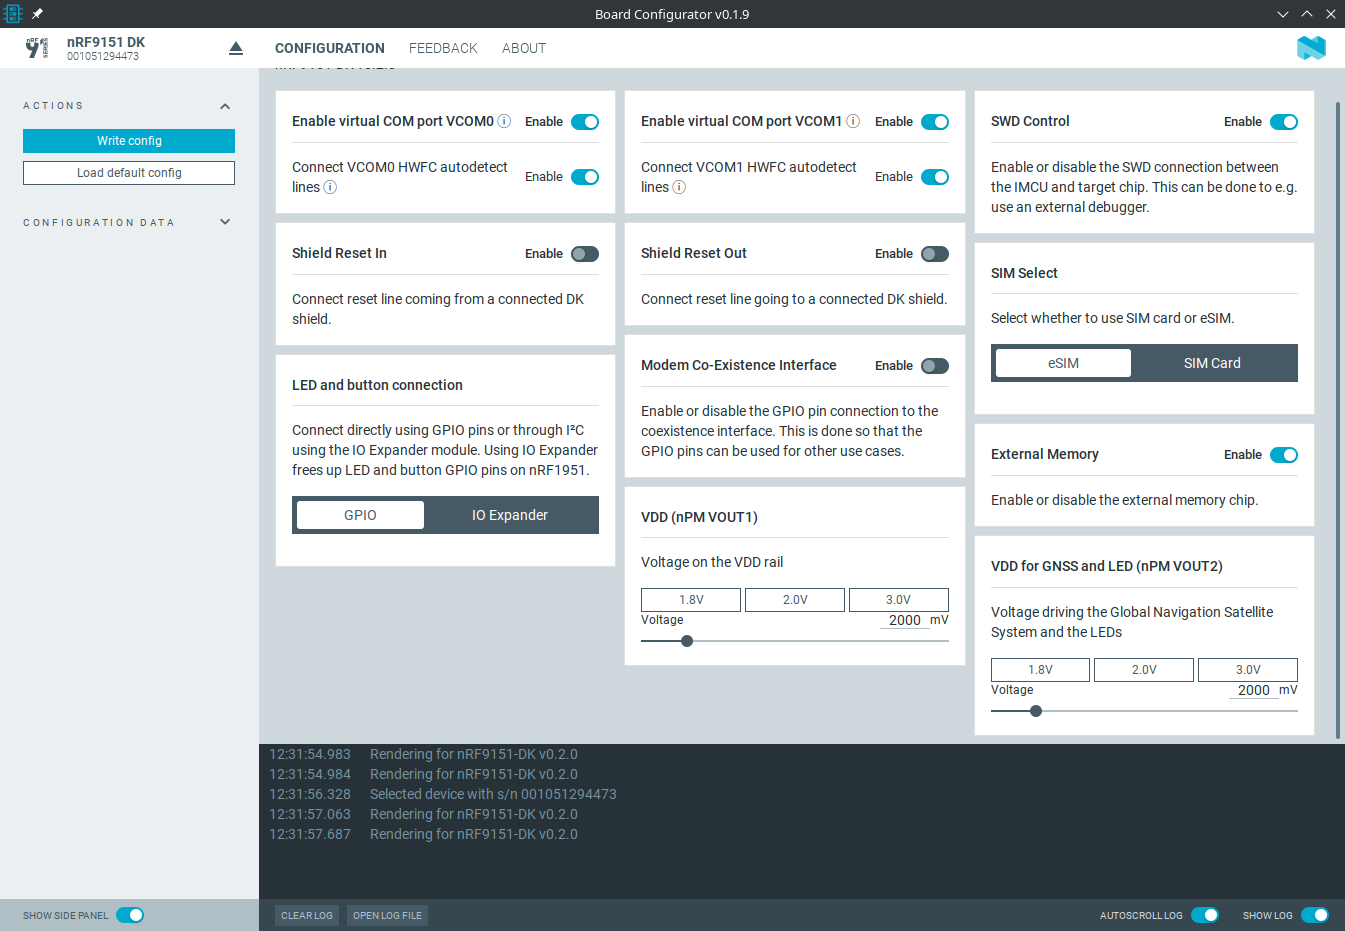
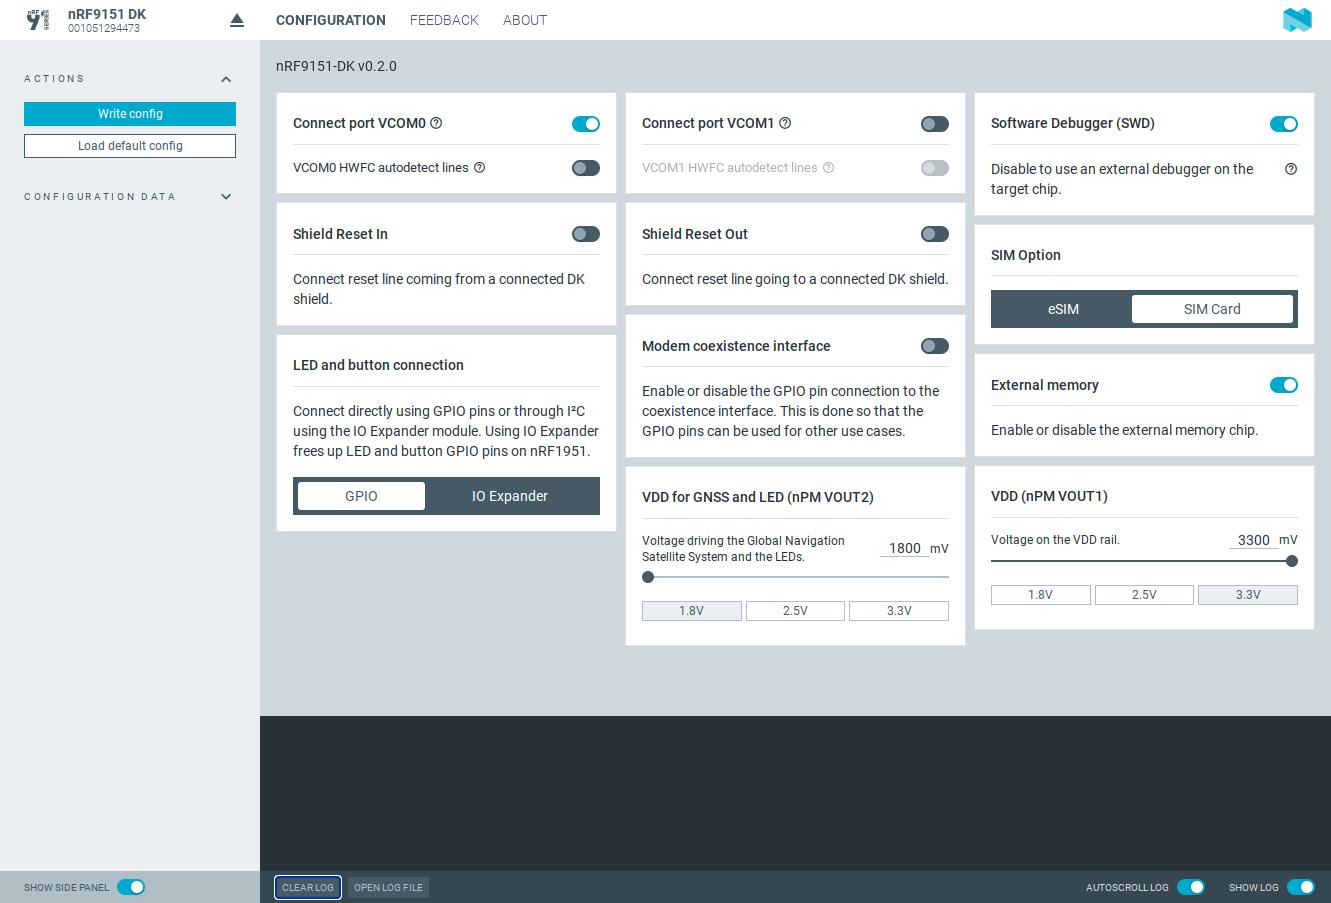
doc: v0.1.12 update
Updated the UI screenshot for v0.1.12 release.

diff --git a/doc/docs/revision_history.md b/doc/docs/revision_history.md
@@ -2,6 +2,7 @@
 
 | Date       | Description   |
 |------------|---------------|
+| 2024-03-20 | Updated documentation for the experimental [v0.1.12](https://github.com/NordicSemiconductor/pc-nrfconnect-board-configurator/blob/main/Changelog.md) of the application. |
 | 2024-03-07 | Updated documentation for the experimental [v0.1.9](https://github.com/NordicSemiconductor/pc-nrfconnect-board-configurator/blob/main/Changelog.md) of the application. |
 | 2024-03-05 | Updated documentation for the experimental [v0.1.8](https://github.com/NordicSemiconductor/pc-nrfconnect-board-configurator/blob/main/Changelog.md) of the application. |
 | 2024-02-21 | Added the nRF9151 DK to the list of supported devices with the release of [v0.1.6](https://github.com/NordicSemiconductor/pc-nrfconnect-board-configurator/blob/main/Changelog.md) of the application. |

diff --git a/doc/docs/updating.md b/doc/docs/updating.md
@@ -13,6 +13,10 @@ To update the configuration of a development kit, complete the following steps:
     ![Example of the configuration options](./screenshots/board_configurator_connected.png "Example of the configuration options")
 
 1. Configure the settings in the [**Configuration**](./overview.md#configuration-tab) tab.
+
+    !!! note "Note"
+          Some options are interdependable. For example, if the VCOM is disconnected, the Hardware Flow Control will automatically be disconnected too.
+
 1. Click [**Write config**](./overview.md#actions) to upload the config to the device.</br>
    The application overwrites the default board controller configuration with the updated settings.
    The **Write config** button is greyed out when the upload is ongoing.

diff --git a/Changelog.md b/Changelog.md
@@ -4,9 +4,9 @@ EXPERIMENTAL RELEASE
 
 ### Changed
 
--   Updated texts explaining the board controller options.
--   Updated UI
--   Updated shared components
+-   Updated the tooltips for the board controller options.
+-   Updated UI.
+-   Updated shared components.
 
 ## 0.1.11 - 2024-03-07
 
